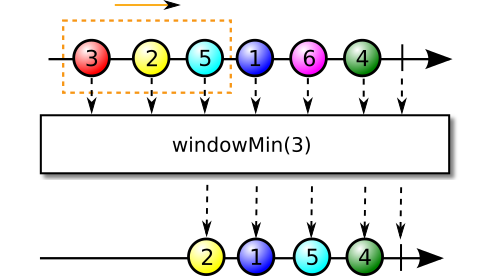
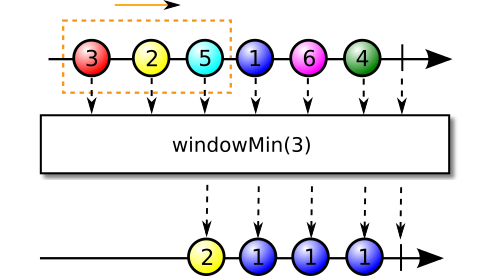
fix marble diagram, add test

Changed region(s): [[0.4592, 0.7246, 0.6735, 1.0], [0.7041, 0.8696, 0.7959, 1.0], [0.5204, 0.6667, 0.551, 0.6957]]

diff --git a/src/test/java/com/github/davidmoten/rx2/internal/flowable/FlowableWindowMinMaxTest.java b/src/test/java/com/github/davidmoten/rx2/internal/flowable/FlowableWindowMinMaxTest.java
@@ -11,6 +11,7 @@ import org.junit.Test;
 import com.github.davidmoten.rx2.FlowableTransformers;
 
 import io.reactivex.Flowable;
+import io.reactivex.FlowableTransformer;
 
 public class FlowableWindowMinMaxTest {
 	@Test
@@ -67,4 +68,12 @@ public class FlowableWindowMinMaxTest {
 		        .assertError(r);
 	}
 
+	@Test
+	public void testExample() {
+		Flowable.just(3, 2, 5, 1, 6, 4) //
+		        .compose(FlowableTransformers.<Integer>windowMin(3)) //
+		        .test() //
+		        .assertValues(2, 1, 1, 1) //
+		        .assertComplete();
+	}
 }
